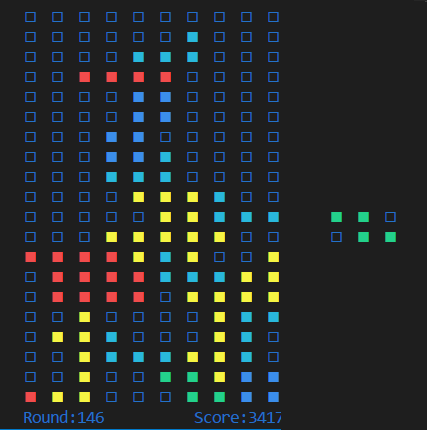
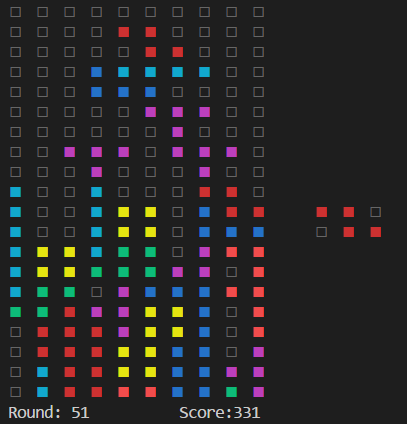
Update ReadMe & screenshot

Changed region(s): [[0.0, 0.0, 0.6781, 1.0], [0.7666, 0.4906, 0.9435, 0.5825]]

diff --git a/README.md b/README.md
@@ -1,16 +1,16 @@
 # REPLTetris.jl
 This started as an exercise to learn terminal rendering and key-input.
+Rendering is greatily improved through only rendering diffs to the last screen.
 
-Still needs some work to improve rendering speed - but it's suprisingly playable.
-
+This is a screenshot playing in the VSCode REPL:
 ![Julia REPL Screenshot of a lost game of REPLTetris](resources/Screenshot.PNG)
 
 ToDo:
-- [ ] improve rendering speed
-- [ ] look up and comply with traditional scoring and colors
+- [x] improve rendering speed
+- [x] look up and comply with traditional colors
+- [ ] use traditional scoring & levels
 - [x] present upcoming tile to the right
 - [x] look into better type-structures - `StaticArrays` aren't really needed
-- [ ] ~~sound & music~~
 
 # Installation & Usage
 The package is not yet registered in Meta-Data. You will need to clone it from this site:
